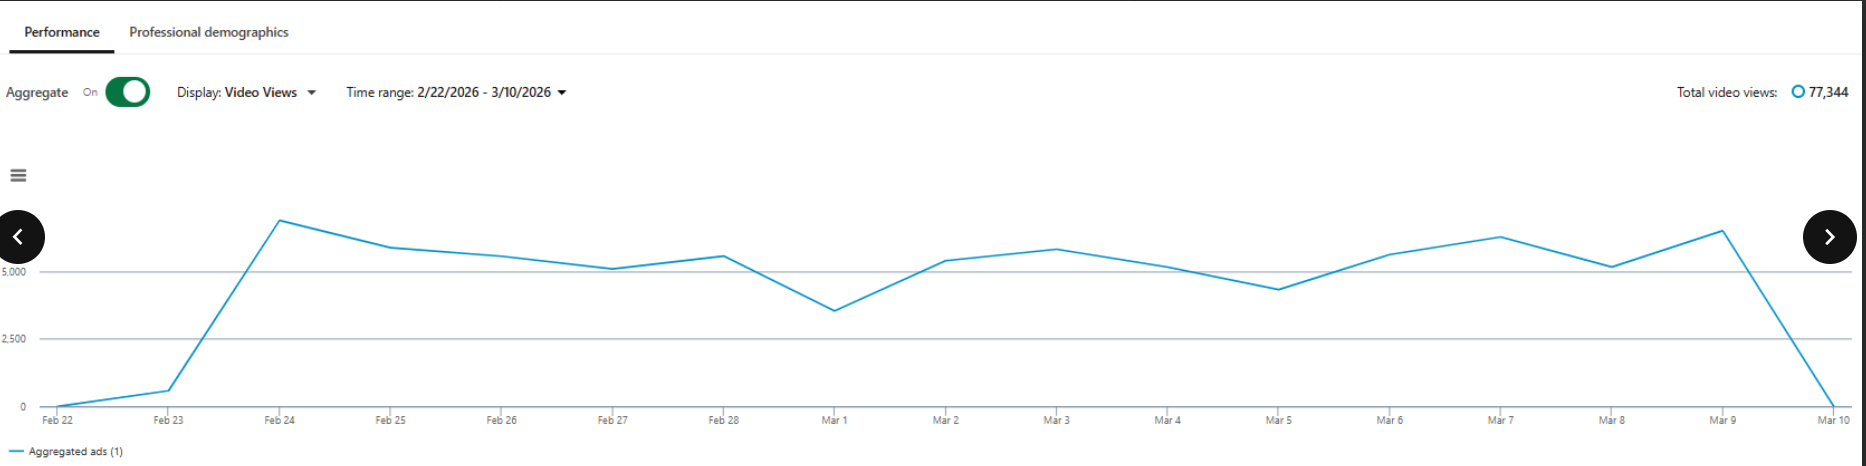
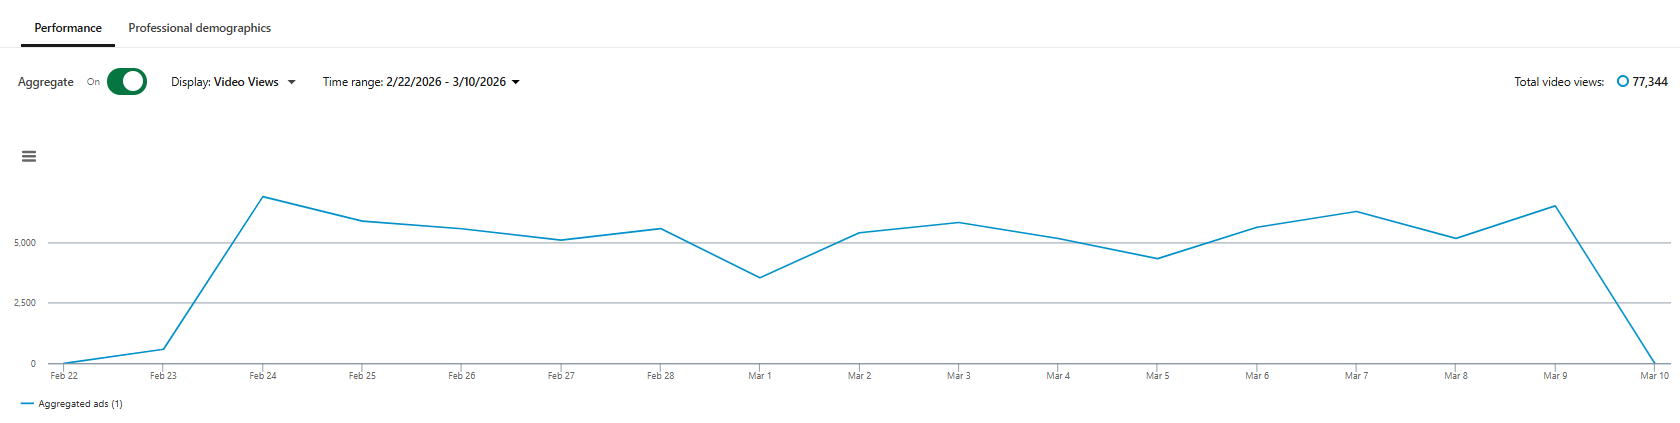
Add files via upload

diff --git a/index.html b/index.html
@@ -219,6 +219,7 @@
             <li>Built a hook bank, A/B-tested by opener type <span class="sub">Question, stat, and controversy openers, ranked by retention.</span></li>
             <li>Turned one long-form recording into 6–8 short clips a week <span class="sub">A full repurposing pipeline, not one-off editing.</span></li>
           </ul>
+          <span class="metrics-eyebrow">Organic Growth</span>
           <div class="case-metrics">
             <div class="m"><span class="n" data-count="1.4" data-suffix="M+">0</span><span class="l">Combined views, across 50 reels</span></div>
             <div class="m"><span class="n" data-count="878" data-suffix="K">0</span><span class="l">Views, highest-performing reel</span></div>
@@ -258,6 +259,7 @@
             <li>Directed <span class="kw">AIDA-structured scripts</span> with a 3-second hook <span class="sub">Backed by full-fledged briefs, so clients could follow the format every time.</span></li>
             <li>Ran <span class="kw">competitor &amp; SWOT analysis</span> across state and national accounts <span class="sub">Set the content pillars from what actually worked.</span></li>
           </ul>
+          <span class="metrics-eyebrow">Organic Growth</span>
           <div class="case-metrics">
             <div class="m"><span class="n" data-count="1.5" data-suffix="M+">0</span><span class="l">Combined views, across 50 reels</span></div>
             <div class="m"><span class="n" data-count="394" data-suffix="K">0</span><span class="l">Views, highest-performing reel</span></div>
@@ -296,6 +298,7 @@
             <li>Built a lead-magnet system that moved followers into DMs <span class="sub">A downloadable guide plus an interactive quiz post.</span></li>
             <li>Repurposed each retreat into 8–10 pieces of evergreen content <span class="sub">Testimonials and recap footage, reused across launches.</span></li>
           </ul>
+          <span class="metrics-eyebrow">Organic Growth</span>
           <div class="case-metrics">
             <div class="m"><span class="n" data-count="474" data-suffix="K+">0</span><span class="l">Combined views, across 50 reels</span></div>
             <div class="m"><span class="n" data-count="37" data-suffix="K">0</span><span class="l">Views, highest-performing reel</span></div>
@@ -351,6 +354,7 @@
             <li>Defined content pillars around core ICP pain points <span class="sub">Sleep, gut health, cognitive fog, immune recovery.</span></li>
             <li>Developed the brand's podcast from concept through launch <span class="sub">Format, structure, and episode one.</span></li>
           </ul>
+          <span class="metrics-eyebrow">Organic Growth</span>
           <div class="case-metrics">
             <div class="m"><span class="n" data-count="200" data-suffix="K+">0</span><span class="l">Combined views, across 50 reels</span></div>
             <div class="m"><span class="n" data-count="127" data-suffix="K">0</span><span class="l">Views, highest-performing reel</span></div>
@@ -406,6 +410,7 @@
             <li>Storyboarded TVCs shot-by-shot for purchase-intent audiences <span class="sub">Talking-head reels scripted for the same buyer.</span></li>
             <li>Built a 5-stage launch sequence for every fragrance drop <span class="sub">Teaser → reveal → notes → founder story → reaction.</span></li>
           </ul>
+          <span class="metrics-eyebrow">Organic Growth</span>
           <div class="case-metrics">
             <div class="m"><span class="n" data-count="101" data-suffix="K+">0</span><span class="l">Combined views, across 50 reels</span></div>
             <div class="m"><span class="n" data-count="50.1" data-suffix="K">0</span><span class="l">Views, highest-performing reel</span></div>
@@ -503,36 +508,158 @@
       <div class="am-panel" role="dialog" aria-modal="true" aria-label="Analytics proof">
         <div class="am-head">
           <div>
-            <span class="eyebrow">Certrec · LinkedIn Campaign Manager</span>
+            <span class="eyebrow" id="amEyebrow">Jonathon Otto · Organic Results</span>
             <h3>Straight from the platform.</h3>
           </div>
           <button class="am-close" data-close type="button" aria-label="Close">
             <svg viewBox="0 0 24 24" fill="none" stroke="currentColor" stroke-width="2" stroke-linecap="round"><line x1="5" y1="5" x2="19" y2="19"/><line x1="19" y1="5" x2="5" y2="19"/></svg>
           </button>
         </div>
-        <div class="am-grid">
-          <figure>
-            <img src="analytics-certrec-1-views.png" alt="LinkedIn Campaign Manager video views, Jan 25 to Feb 10, 2026: 87,529 total">
-            <figcaption>Video views · Jan 25 – Feb 10 · <strong>87,529</strong> total</figcaption>
-          </figure>
-          <figure>
-            <img src="analytics-certrec-2-impressions.png" alt="LinkedIn Campaign Manager impressions, Jan 25 to Feb 10, 2026: 114,000 plus total">
-            <figcaption>Impressions · Jan 25 – Feb 10 · <strong>114K+</strong> total</figcaption>
-          </figure>
-          <figure>
-            <img src="analytics-certrec-3-views.png" alt="LinkedIn Campaign Manager video views, Feb 22 to Mar 10, 2026: 77,344 total">
-            <figcaption>Video views · Feb 22 – Mar 10 · <strong>77,344</strong> total</figcaption>
-          </figure>
-          <figure>
-            <img src="analytics-certrec-4-impressions.png" alt="LinkedIn Campaign Manager impressions, Feb 22 to Mar 10, 2026: 119,392 total">
-            <figcaption>Impressions · Feb 22 – Mar 10 · <strong>119,392</strong> total</figcaption>
-          </figure>
-          <figure>
-            <img src="analytics-certrec-5-impressions.png" alt="LinkedIn Campaign Manager impressions, Sep 16 to Sep 27, 2025: 82,099 total">
-            <figcaption>Impressions · Sep 16 – Sep 27 · <strong>82,099</strong> total</figcaption>
-          </figure>
+
+        <div class="am-tabs" role="tablist">
+          <button class="am-tab-btn" role="tab" aria-selected="true" data-am-tab="jonathon-otto" type="button">Jonathon Otto</button>
+          <button class="am-tab-btn" role="tab" aria-selected="false" data-am-tab="jr-law-group" type="button">JR Law Group</button>
+          <button class="am-tab-btn" role="tab" aria-selected="false" data-am-tab="anahata" type="button">Anahata</button>
+          <button class="am-tab-btn" role="tab" aria-selected="false" data-am-tab="cerathrive" type="button">CeraThrive</button>
+          <button class="am-tab-btn" role="tab" aria-selected="false" data-am-tab="kierin" type="button">Kierin</button>
+          <button class="am-tab-btn" role="tab" aria-selected="false" data-am-tab="certrec" type="button">Certrec</button>
         </div>
-        <p class="am-note">Direct exports from LinkedIn Campaign Manager, the source for every Certrec number on this page.</p>
+
+        <div class="am-tab-panel" data-am-panel="jonathon-otto" data-active="true" data-eyebrow="Jonathon Otto · Organic Results">
+          <div class="am-grid">
+            <figure>
+              <span class="am-tag">IG Analytics</span>
+              <img src="analytics-jonathon-otto-1.png" alt="Instagram Reel insights: 147K video views, 43.27% watched in full">
+              <figcaption>Video views · <strong>147K</strong> · 66 new followers</figcaption>
+            </figure>
+            <figure>
+              <span class="am-tag">IG Analytics</span>
+              <img src="analytics-jonathon-otto-2.png" alt="Instagram Reel insights: 320K video views">
+              <figcaption>Video views · <strong>320K</strong> · 20 new followers</figcaption>
+            </figure>
+            <figure>
+              <span class="am-tag">IG Analytics</span>
+              <img src="analytics-jonathon-otto-3.png" alt="Instagram Reel insights: 277K video views">
+              <figcaption>Video views · <strong>277K</strong> · 61 new followers</figcaption>
+            </figure>
+            <figure>
+              <span class="am-tag">IG Analytics</span>
+              <img src="analytics-jonathon-otto-4.png" alt="Instagram Reel insights: 112K video views">
+              <figcaption>Video views · <strong>112K</strong> · 78 new followers</figcaption>
+            </figure>
+          </div>
+          <p class="am-note">Direct exports from Instagram Insights — organic reels, no paid promotion behind these numbers.</p>
+        </div>
+
+        <div class="am-tab-panel" data-am-panel="jr-law-group" data-eyebrow="JR Law Group · Organic Results">
+          <div class="am-grid">
+            <figure>
+              <span class="am-tag">TikTok Analytics</span>
+              <img src="analytics-jr-law-group-1.png" alt="TikTok Analytics: 394,521 views, 387,136 reach">
+              <figcaption>Views · <strong>394,521</strong> · 387,136 reach</figcaption>
+            </figure>
+            <figure>
+              <span class="am-tag">TikTok Analytics</span>
+              <img src="analytics-jr-law-group-2.png" alt="TikTok Analytics: 50,121 views, 43,872 reach">
+              <figcaption>Views · <strong>50,121</strong> · 43,872 reach</figcaption>
+            </figure>
+            <figure>
+              <span class="am-tag">TikTok Analytics</span>
+              <img src="analytics-jr-law-group-3.png" alt="TikTok Analytics: 87,453 views, 76,910 reach">
+              <figcaption>Views · <strong>87,453</strong> · 76,910 reach</figcaption>
+            </figure>
+            <figure>
+              <span class="am-tag">IG Analytics</span>
+              <img src="analytics-jr-law-group-4.png" alt="Instagram Reel insights: 133K video views">
+              <figcaption>Video views · <strong>133K</strong> · 38 new followers</figcaption>
+            </figure>
+            <figure>
+              <span class="am-tag">IG Analytics</span>
+              <img src="analytics-jr-law-group-5.png" alt="Instagram Reel insights: 78.7K video views">
+              <figcaption>Video views · <strong>78.7K</strong> · 31 new followers</figcaption>
+            </figure>
+          </div>
+          <p class="am-note">Direct exports from TikTok Analytics and Instagram Insights — organic reels and posts, no paid promotion behind these numbers.</p>
+        </div>
+
+        <div class="am-tab-panel" data-am-panel="anahata" data-eyebrow="Anahata Healing · Organic Results">
+          <div class="am-grid">
+            <figure>
+              <span class="am-tag">IG Analytics</span>
+              <img src="analytics-anahata-1.png" alt="Instagram Reel insights: 27.7K video views">
+              <figcaption>Video views · <strong>27.7K</strong> · 33 new followers</figcaption>
+            </figure>
+            <figure>
+              <span class="am-tag">IG Analytics</span>
+              <img src="analytics-anahata-2.png" alt="Instagram Reel insights: 19.6K video views">
+              <figcaption>Video views · <strong>19.6K</strong> · 42 new followers</figcaption>
+            </figure>
+          </div>
+          <p class="am-note">Direct exports from Instagram Insights — organic reels, no paid promotion behind these numbers.</p>
+        </div>
+
+        <div class="am-tab-panel" data-am-panel="cerathrive" data-eyebrow="CeraThrive · Organic Results">
+          <div class="am-grid">
+            <figure>
+              <span class="am-tag">IG Analytics</span>
+              <img src="analytics-cerathrive-1.png" alt="Instagram Reel insights: 60.2K video views">
+              <figcaption>Video views · <strong>60.2K</strong> · 17 new followers</figcaption>
+            </figure>
+            <figure>
+              <span class="am-tag">IG Analytics</span>
+              <img src="analytics-cerathrive-2.png" alt="Instagram Reel insights: 30.2K video views">
+              <figcaption>Video views · <strong>30.2K</strong> · 24 new followers</figcaption>
+            </figure>
+          </div>
+          <p class="am-note">Direct exports from Instagram Insights — organic reels, no paid promotion behind these numbers.</p>
+        </div>
+
+        <div class="am-tab-panel" data-am-panel="kierin" data-eyebrow="Kierin · Organic Results">
+          <div class="am-grid">
+            <figure>
+              <span class="am-tag">TikTok Analytics</span>
+              <img src="analytics-kierin-1.png" alt="TikTok Analytics: 19,600 views, 19,750 reach">
+              <figcaption>Views · <strong>19,600</strong> · 19,750 reach</figcaption>
+            </figure>
+            <figure>
+              <span class="am-tag">TikTok Analytics</span>
+              <img src="analytics-kierin-2.png" alt="TikTok Analytics: 13,242 views, 13,400 reach">
+              <figcaption>Views · <strong>13,242</strong> · 13,400 reach</figcaption>
+            </figure>
+          </div>
+          <p class="am-note">Direct exports from TikTok Analytics — organic posts, no paid promotion behind these numbers.</p>
+        </div>
+
+        <div class="am-tab-panel" data-am-panel="certrec" data-eyebrow="Certrec · LinkedIn Campaign Manager">
+          <div class="am-grid">
+            <figure>
+              <span class="am-tag">Campaign Manager Analytics</span>
+              <img src="analytics-certrec-1-views.png" alt="LinkedIn Campaign Manager video views: 87,529 total">
+              <figcaption>Video views · <strong>87,529</strong> total</figcaption>
+            </figure>
+            <figure>
+              <span class="am-tag">Campaign Manager Analytics</span>
+              <img src="analytics-certrec-2-impressions.png" alt="LinkedIn Campaign Manager impressions: 114,615 total">
+              <figcaption>Impressions · <strong>114,615</strong> total</figcaption>
+            </figure>
+            <figure>
+              <span class="am-tag">Campaign Manager Analytics</span>
+              <img src="analytics-certrec-3-views.png" alt="LinkedIn Campaign Manager video views: 77,344 total">
+              <figcaption>Video views · <strong>77,344</strong> total</figcaption>
+            </figure>
+            <figure>
+              <span class="am-tag">Campaign Manager Analytics</span>
+              <img src="analytics-certrec-4-impressions.png" alt="LinkedIn Campaign Manager impressions: 119,392 total">
+              <figcaption>Impressions · <strong>119,392</strong> total</figcaption>
+            </figure>
+            <figure>
+              <span class="am-tag">Campaign Manager Analytics</span>
+              <img src="analytics-certrec-5-impressions.png" alt="LinkedIn Campaign Manager impressions: 82,099 total">
+              <figcaption>Impressions · <strong>82,099</strong> total</figcaption>
+            </figure>
+          </div>
+          <p class="am-note">Direct exports from LinkedIn Campaign Manager, the source for every Certrec number on this page.</p>
+        </div>
       </div>
     </div>
 

diff --git a/styles.css b/styles.css
@@ -424,6 +424,8 @@ section{ position:relative; padding-block:88px; }
 .case-link svg{ width:13px; height:13px; }
 .case-samples-link{ color:var(--teal-deep); }
 .case-samples-link:hover{ color:var(--teal); }
+.metrics-eyebrow{ display:block; font-size:11.5px; font-weight:700; letter-spacing:.08em; text-transform:uppercase; color:var(--teal-deep); margin-top:24px; }
+.metrics-eyebrow + .case-metrics{ margin-top:10px; }
 .case-metrics{ display:flex; gap:22px; flex-wrap:wrap; margin-top:24px; }
 .case-metrics .m{ display:flex; flex-direction:column; gap:4px; }
 .case-metrics .m .n{ font-family:var(--font-display); font-weight:700; font-size:clamp(30px,3.4vw,38px); color:var(--teal-deep); font-variant-numeric:tabular-nums; letter-spacing:-0.01em; }
@@ -543,12 +545,24 @@ section{ position:relative; padding-block:88px; }
 }
 .am-close:hover{ color:var(--teal); border-color:var(--teal); }
 .am-close svg{ width:16px; height:16px; }
+.am-tabs{ display:flex; flex-wrap:wrap; gap:8px; margin-top:22px; padding-bottom:18px; border-bottom:1px solid var(--line-soft); }
+.am-tab-btn{
+  background:transparent; border:1.5px solid var(--line); color:var(--ink-soft);
+  padding:8px 16px; border-radius:100px; font-weight:700; font-size:12.5px; cursor:pointer;
+  transition:all .2s var(--ease);
+}
+.am-tab-btn:hover{ border-color:var(--teal); color:var(--ink); }
+.am-tab-btn[aria-selected="true"]{ background:var(--ink); border-color:var(--ink); color:var(--paper); }
+.am-tab-panel{ display:none; }
+.am-tab-panel[data-active="true"]{ display:block; }
 .am-grid{ display:grid; grid-template-columns:repeat(2,1fr); gap:16px; margin-top:22px; }
-.am-grid figure:nth-last-child(1):nth-child(odd){ grid-column:span 2; }
-.am-grid figure:nth-last-child(1):nth-child(odd) img{ max-height:220px; object-fit:cover; object-position:top; }
-@media (max-width:620px){ .am-grid{ grid-template-columns:1fr; } .am-grid figure:nth-last-child(1):nth-child(odd){ grid-column:span 1; } .am-grid figure:nth-last-child(1):nth-child(odd) img{ max-height:none; } }
+@media (max-width:620px){ .am-grid{ grid-template-columns:1fr; } }
 .am-grid figure{ margin:0; border:1px solid var(--line-soft); border-radius:10px; overflow:hidden; background:var(--paper-2); }
 .am-grid img{ width:100%; display:block; }
+.am-tag{
+  display:block; background:var(--ink); color:var(--paper); font-size:10px; font-weight:700;
+  letter-spacing:.06em; text-transform:uppercase; padding:6px 12px;
+}
 .am-grid figcaption{ padding:10px 12px; font-size:12.5px; color:var(--ink-soft); font-weight:600; }
 .am-grid figcaption strong{ color:var(--teal-deep); }
 .am-note{ margin-top:20px; font-size:12.5px; color:var(--ink-faint); }

diff --git a/script.js b/script.js
@@ -157,6 +157,21 @@
     document.addEventListener('keydown', function(e){
       if (e.key === 'Escape' && !analyticsModal.hidden) { closeModal(); }
     });
+
+    var amEyebrow = document.getElementById('amEyebrow');
+    var amTabButtons = Array.prototype.slice.call(analyticsModal.querySelectorAll('.am-tab-btn'));
+    var amPanels = Array.prototype.slice.call(analyticsModal.querySelectorAll('.am-tab-panel'));
+    amTabButtons.forEach(function(btn){
+      btn.addEventListener('click', function(){
+        amTabButtons.forEach(function(b){ b.setAttribute('aria-selected', b === btn ? 'true' : 'false'); });
+        var key = btn.getAttribute('data-am-tab');
+        amPanels.forEach(function(p){
+          var active = p.getAttribute('data-am-panel') === key;
+          p.setAttribute('data-active', active ? 'true' : 'false');
+          if (active && amEyebrow) { amEyebrow.textContent = p.getAttribute('data-eyebrow') || ''; }
+        });
+      });
+    });
   }
 
   /* ---------- work samples: scroll to matching gallery tile ---------- */
